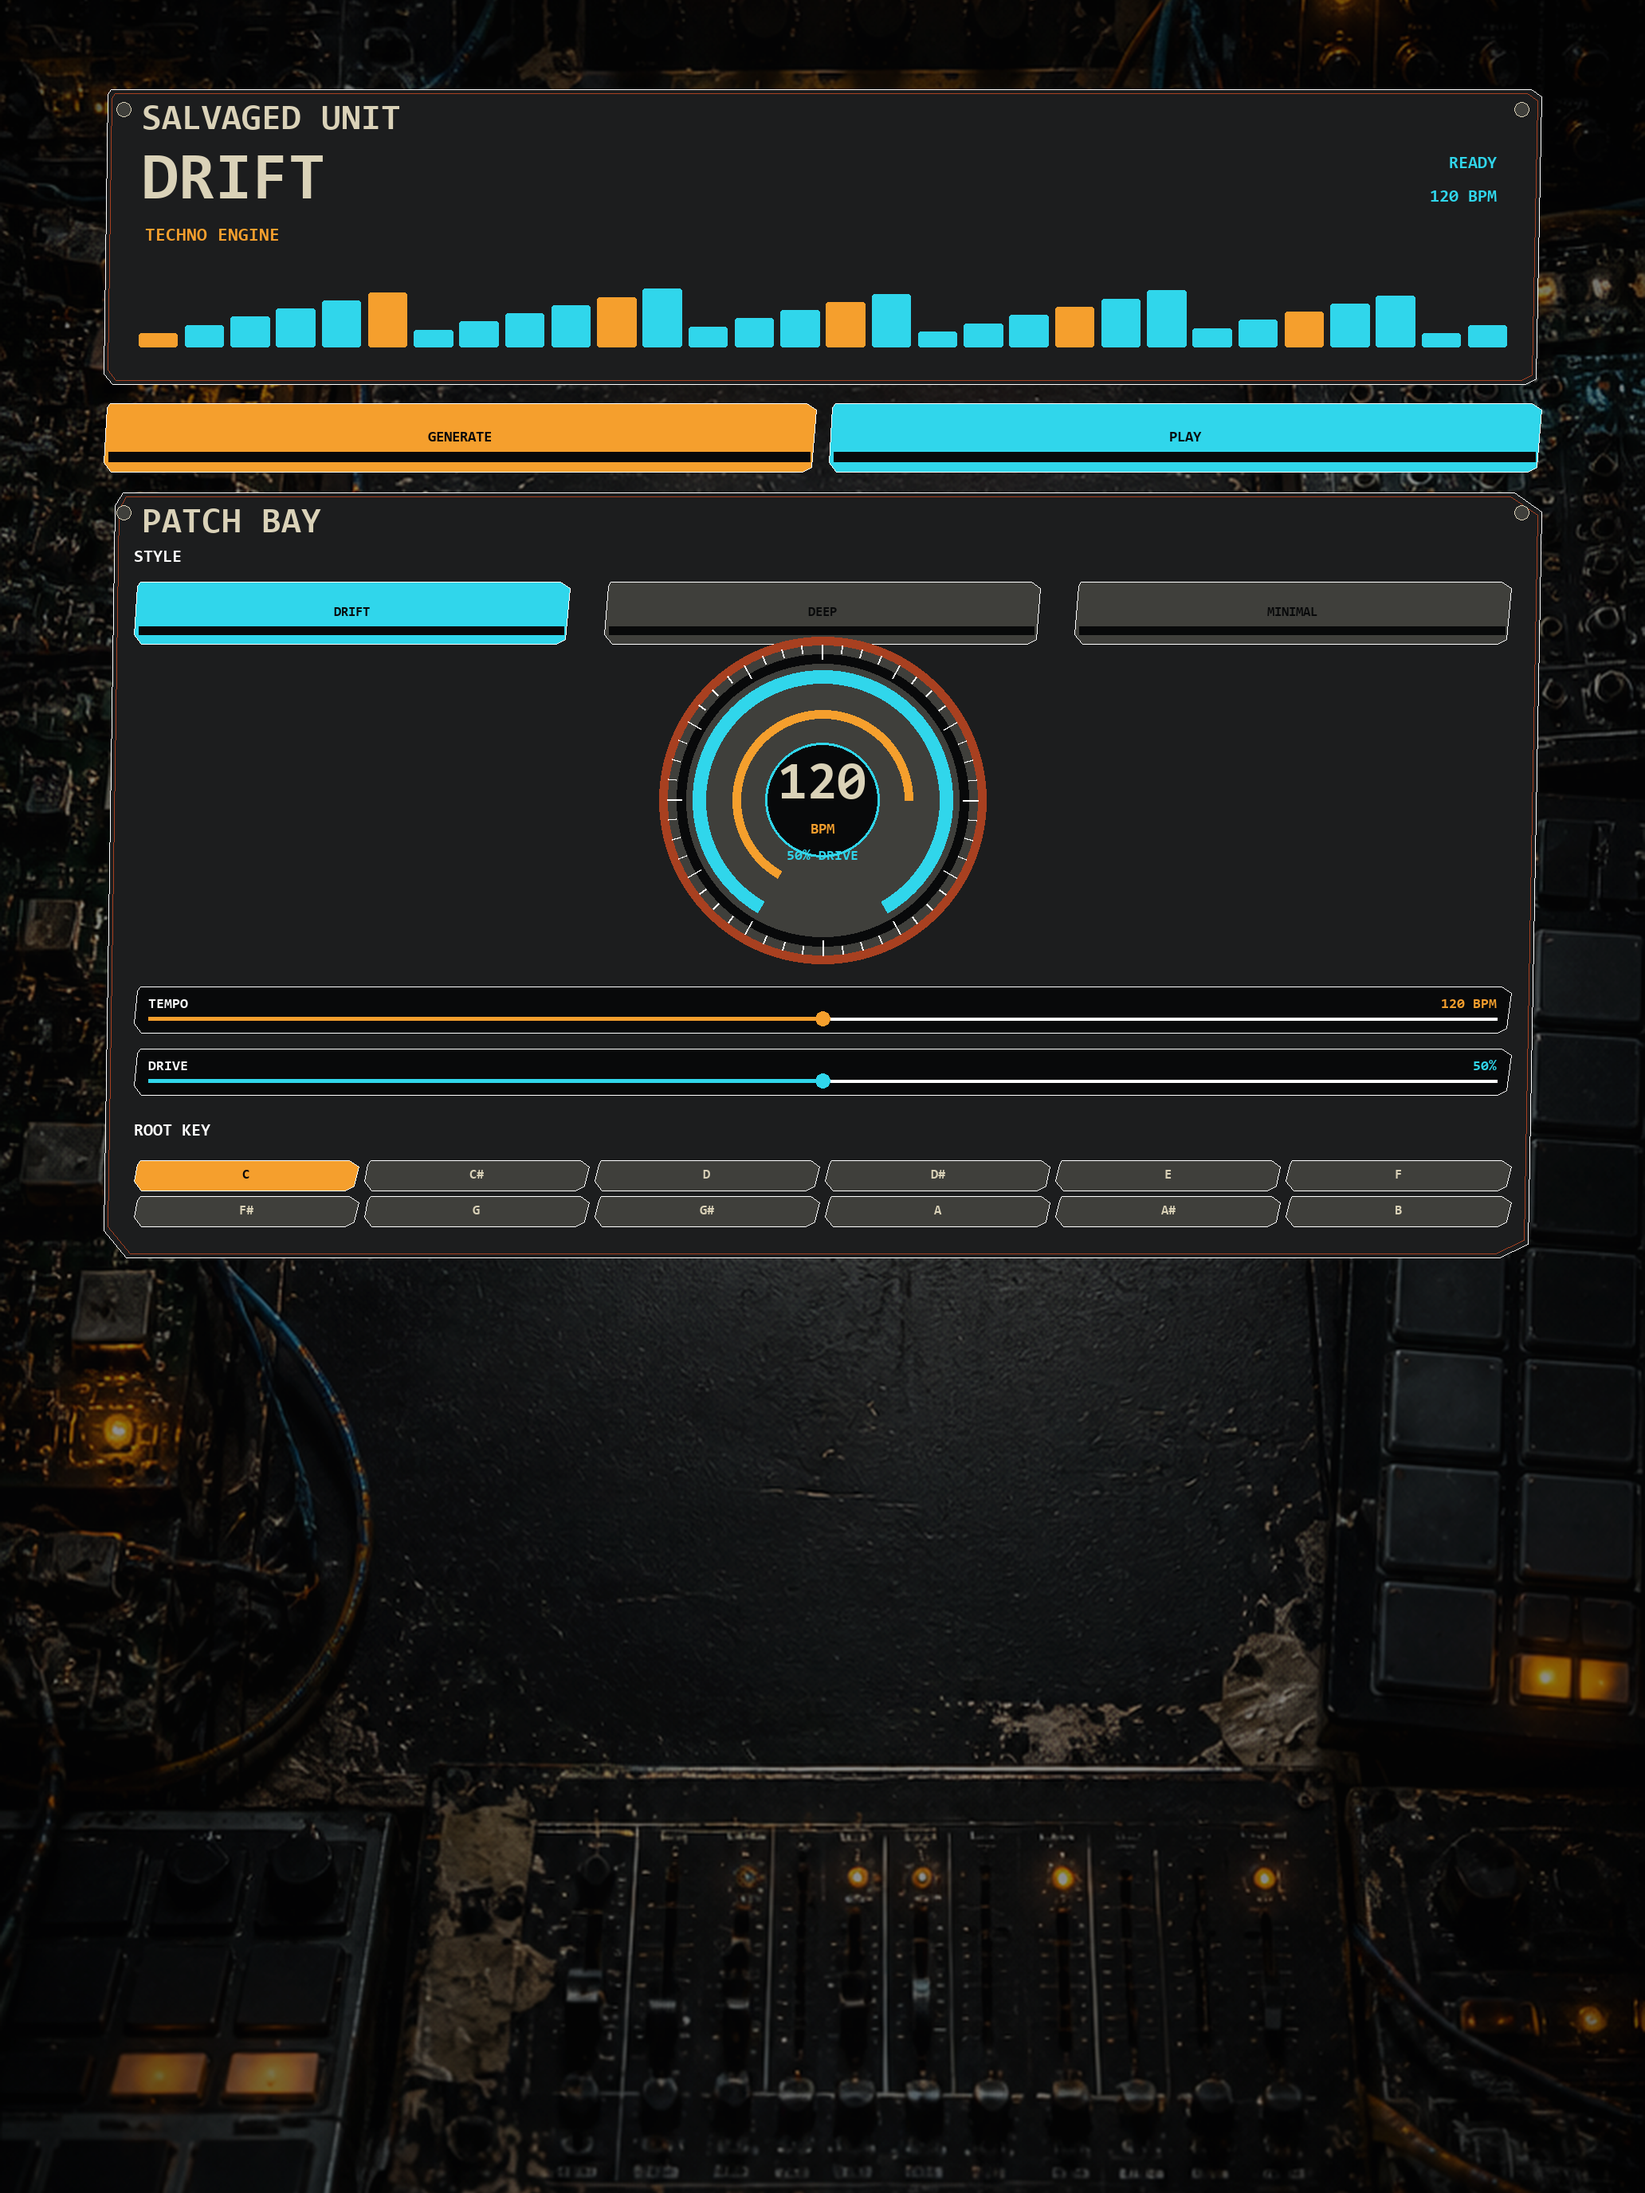
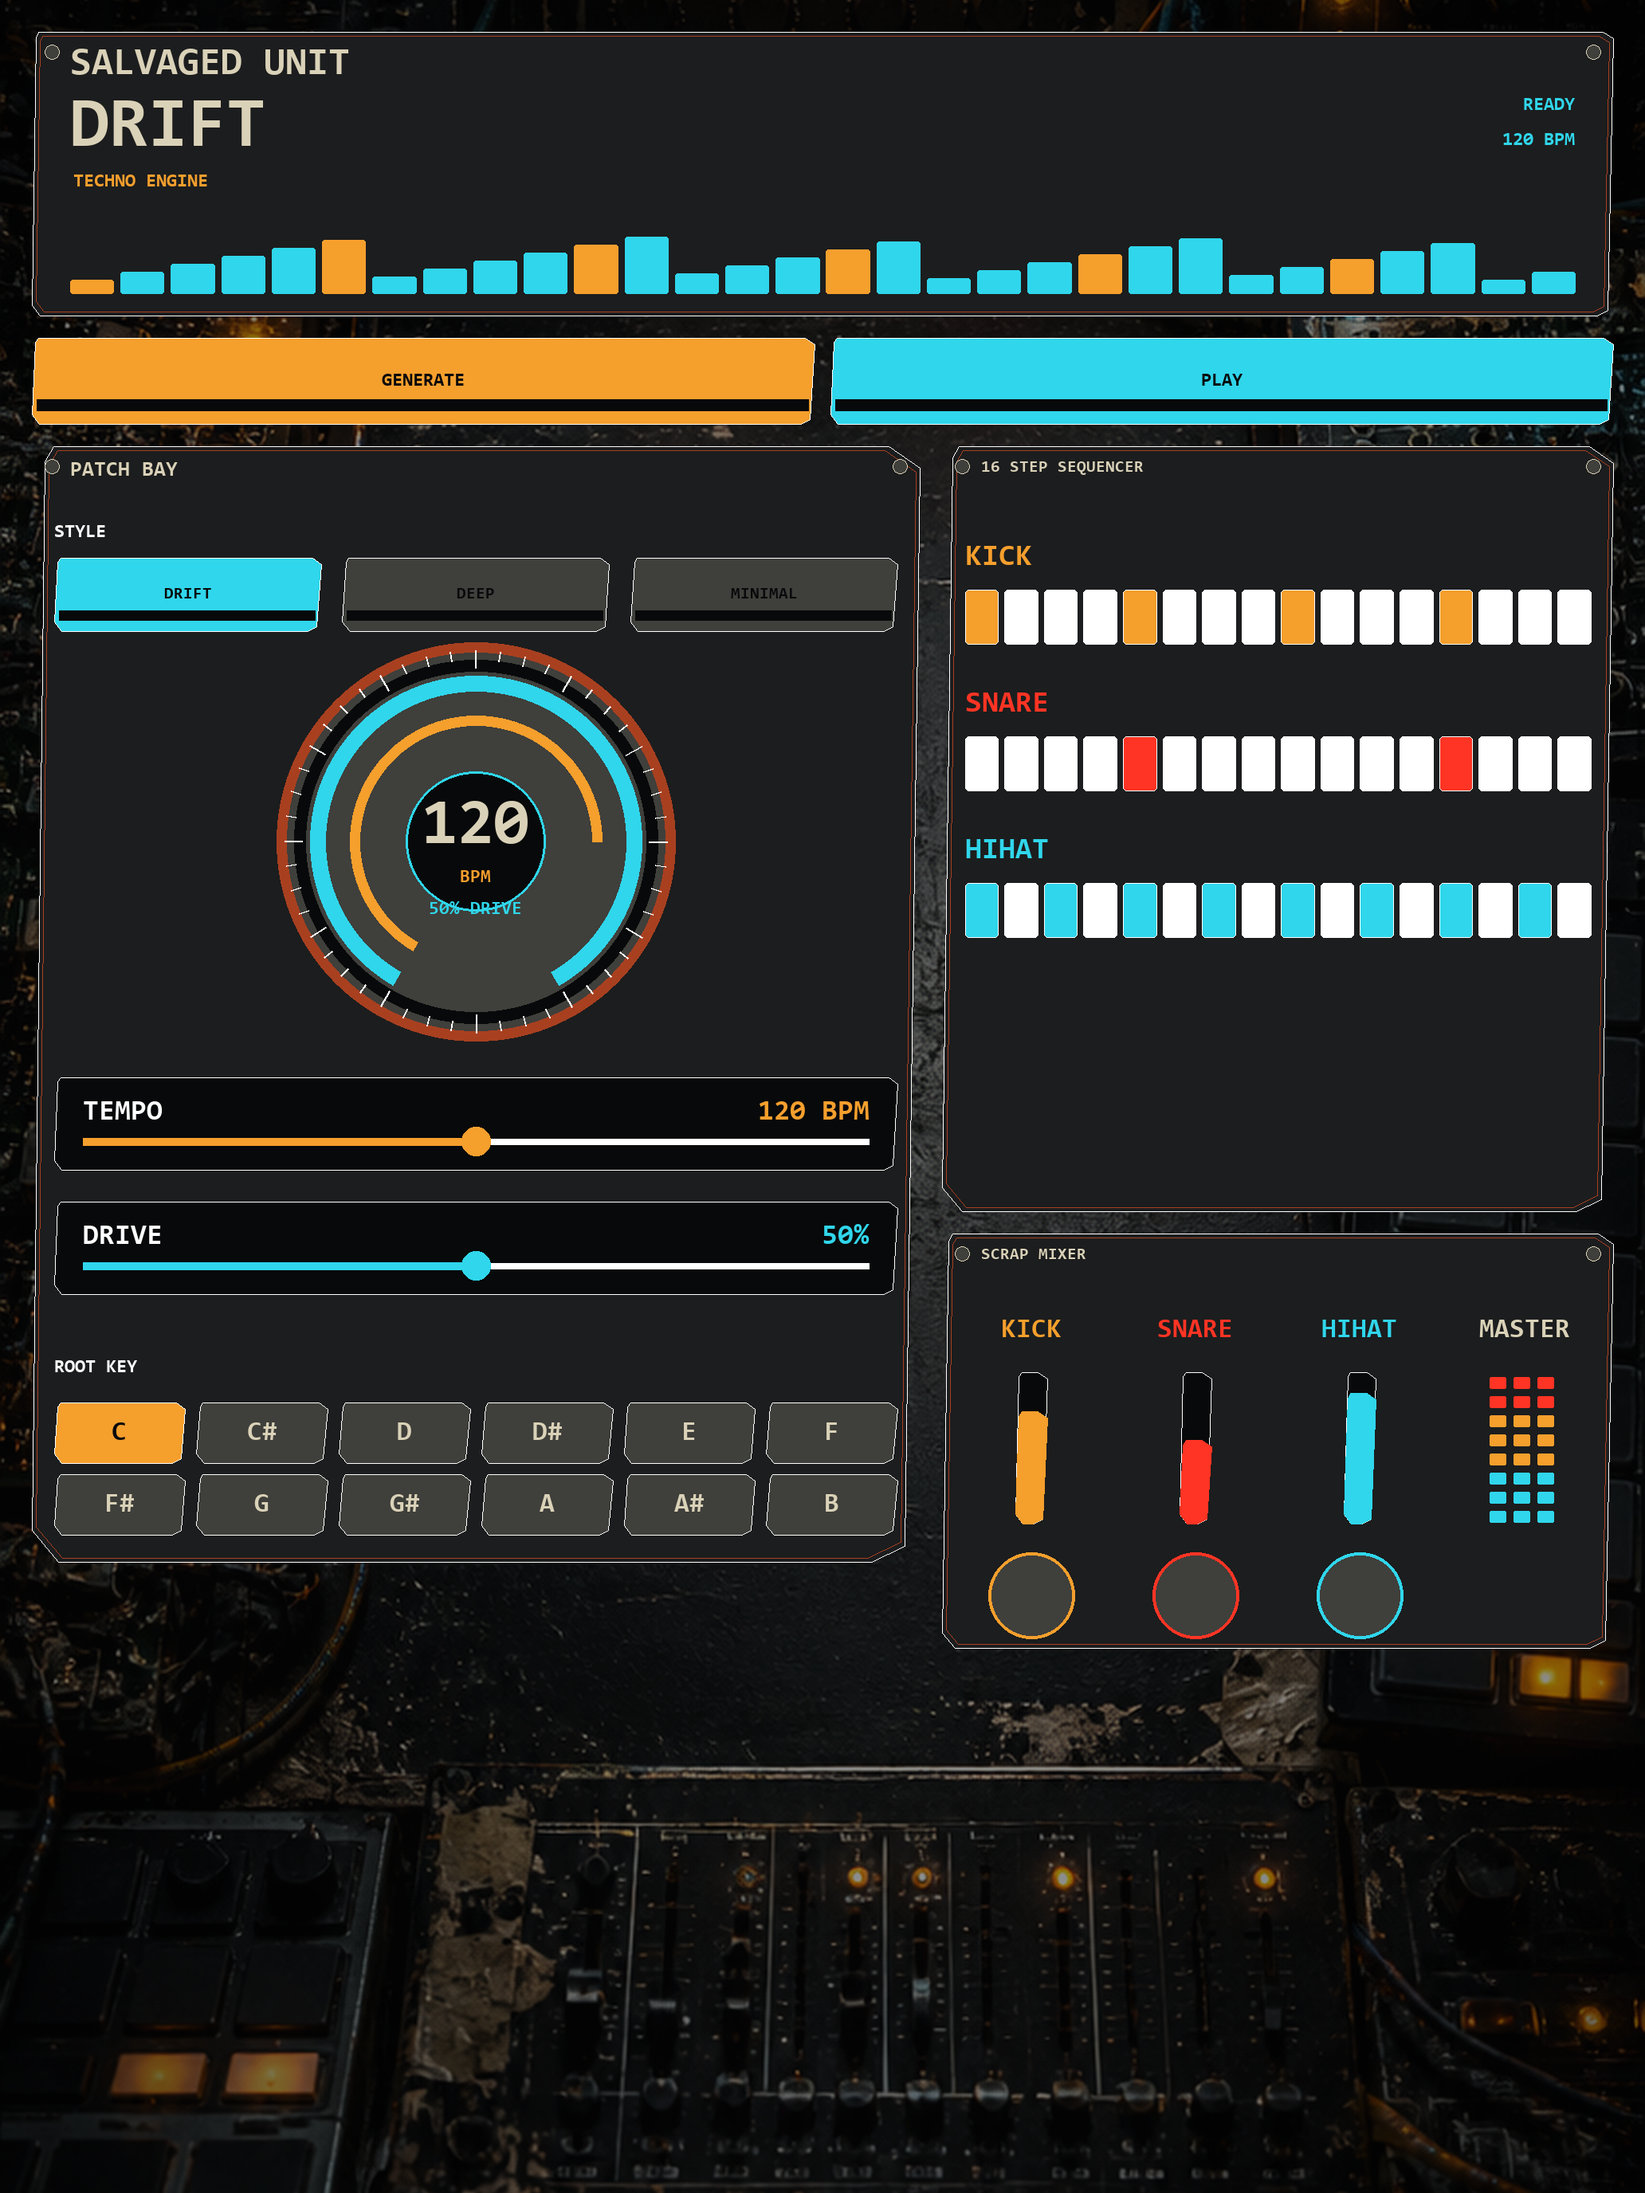
Fix iPad launch layout

Changed region(s): [[0.0, 0.0, 0.9922, 0.75], [0.9302, 0.5, 0.9612, 0.5312], [0.7132, 0.5938, 0.7442, 0.625]]

diff --git a/TechnoMaker/ContentView.swift b/TechnoMaker/ContentView.swift
@@ -8,34 +8,15 @@ struct ContentView: View {
         ZStack {
             DetroitBackplate()
 
-            ScrollView(showsIndicators: false) {
-                VStack(spacing: 14) {
-                    HeaderDeck(isPlaying: generator.isPlaying, tempo: generator.tempo)
-
-                    TransportDeck(
-                        isPlaying: generator.isPlaying,
-                        hasPattern: generator.generatedPattern != nil,
-                        generateAction: { generator.generateTechno() },
-                        playAction: togglePlayback
-                    )
-
-                    MachinePanel(title: "PATCH BAY") {
-                        StyleSelector(style: $generator.style)
-                        TempoDriveDeck(tempo: $generator.tempo, intensity: $generator.intensity)
-                        KeySelector(key: $generator.key, labels: keys)
+            GeometryReader { proxy in
+                if proxy.size.width >= 700 {
+                    iPadDeck(width: proxy.size.width)
+                        .frame(maxWidth: .infinity, maxHeight: .infinity, alignment: .top)
+                } else {
+                    ScrollView(showsIndicators: false) {
+                        phoneDeck
                     }
-
-                    if let pattern = generator.generatedPattern {
-                        SequencerPanel(pattern: pattern, currentStep: generator.isPlaying ? generator.currentStep : nil)
-                    } else {
-                        EmptySequencerPanel()
-                    }
-
-                    MixerPanel()
                 }
-                .padding(.horizontal, 16)
-                .padding(.top, 18)
-                .padding(.bottom, RuntimeEnvironment.isNativeDevice ? 84 : 28)
             }
         }
         .safeAreaInset(edge: .bottom) {
@@ -47,6 +28,69 @@ struct ContentView: View {
             }
         }
         .preferredColorScheme(.dark)
+    }
+
+    private var phoneDeck: some View {
+        VStack(spacing: 14) {
+            HeaderDeck(isPlaying: generator.isPlaying, tempo: generator.tempo)
+            transportDeck
+
+            MachinePanel(title: "PATCH BAY") {
+                StyleSelector(style: $generator.style)
+                TempoDriveDeck(tempo: $generator.tempo, intensity: $generator.intensity)
+                KeySelector(key: $generator.key, labels: keys)
+            }
+
+            sequencerDeck
+            MixerPanel()
+        }
+        .padding(.horizontal, 16)
+        .padding(.top, 18)
+        .padding(.bottom, RuntimeEnvironment.isNativeDevice ? 84 : 28)
+    }
+
+    private func iPadDeck(width: CGFloat) -> some View {
+        VStack(spacing: 14) {
+            HeaderDeck(isPlaying: generator.isPlaying, tempo: generator.tempo)
+            transportDeck
+
+            HStack(alignment: .top, spacing: 14) {
+                MachinePanel(title: "PATCH BAY") {
+                    StyleSelector(style: $generator.style)
+                    TempoDriveDeck(tempo: $generator.tempo, intensity: $generator.intensity)
+                    KeySelector(key: $generator.key, labels: keys)
+                }
+                .frame(width: min(width * 0.54, 560))
+
+                VStack(spacing: 14) {
+                    sequencerDeck
+                    MixerPanel()
+                }
+                .frame(maxWidth: .infinity)
+            }
+        }
+        .padding(.horizontal, 20)
+        .padding(.top, 20)
+        .padding(.bottom, RuntimeEnvironment.isNativeDevice ? 90 : 30)
+    }
+
+    private var transportDeck: some View {
+        TransportDeck(
+            isPlaying: generator.isPlaying,
+            hasPattern: generator.generatedPattern != nil,
+            generateAction: { generator.generateTechno() },
+            playAction: togglePlayback
+        )
+    }
+
+    private var sequencerDeck: some View {
+        Group {
+            if let pattern = generator.generatedPattern {
+                SequencerPanel(pattern: pattern, currentStep: generator.isPlaying ? generator.currentStep : nil)
+            } else {
+                EmptySequencerPanel()
+            }
+        }
     }
 
     private func togglePlayback() {

diff --git a/scripts/generate_marketing_screenshots.py b/scripts/generate_marketing_screenshots.py
@@ -200,18 +200,15 @@ def mixer(draw, x, y, w, h, scale):
 
 
 def base_ui(size, mode):
+    if size[0] > 1500:
+        return ipad_ui(size, mode)
+
     img = cover_background(size)
     draw = ImageDraw.Draw(img, "RGBA")
     scale = size[0] / 1290
     margin = 54 * scale
     panel_w = size[0] - margin * 2
     y = 72 * scale
-
-    if size[0] > 1500:
-        scale = size[0] / 2064
-        margin = 130 * scale
-        panel_w = size[0] - margin * 2
-        y = 112 * scale
 
     panel(draw, (margin, y, panel_w, 370 * scale), "SALVAGED UNIT")
     draw_text(draw, (margin + 48 * scale, y + 74 * scale), "DRIFT", int(84 * scale), COLORS["bone"], True)
@@ -242,6 +239,54 @@ def base_ui(size, mode):
         y += 494 * scale
         panel(draw, (margin, y, panel_w, 330 * scale), "SCRAP MIXER")
         mixer(draw, margin + 38 * scale, y + 76 * scale, panel_w - 76 * scale, 230 * scale, scale)
+
+    return img.convert("RGB")
+
+
+def ipad_ui(size, mode):
+    img = cover_background(size)
+    draw = ImageDraw.Draw(img, "RGBA")
+    scale = size[0] / 1032
+    margin = 20 * scale
+    panel_w = size[0] - margin * 2
+    y = 20 * scale
+
+    panel(draw, (margin, y, panel_w, 178 * scale), "SALVAGED UNIT")
+    draw_text(draw, (margin + 24 * scale, y + 38 * scale), "DRIFT", int(45 * scale), COLORS["bone"], True)
+    draw_text(draw, (margin + 26 * scale, y + 88 * scale), "TECHNO ENGINE", int(12 * scale), COLORS["amber"], True)
+    draw_text(draw, (margin + panel_w - 24 * scale, y + 40 * scale), "READY", int(12 * scale), COLORS["cyan"], True, "ra")
+    draw_text(draw, (margin + panel_w - 24 * scale, y + 62 * scale), "120 BPM", int(12 * scale), COLORS["cyan"], True, "ra")
+    led_scope(draw, margin + 24 * scale, y + 126 * scale, panel_w - 48 * scale, 38 * scale, mode == "sequencer")
+
+    y += 192 * scale
+    deck_button(draw, (margin, y, panel_w / 2 - 5 * scale, 54 * scale), "GENERATE", COLORS["amber"])
+    deck_button(draw, (margin + panel_w / 2 + 5 * scale, y, panel_w / 2 - 5 * scale, 54 * scale), "PLAY", COLORS["cyan"])
+
+    y += 68 * scale
+    gap = 14 * scale
+    left_w = min(size[0] * 0.54, 560 * scale)
+    right_w = panel_w - left_w - gap
+    left_x = margin
+    right_x = margin + left_w + gap
+
+    panel(draw, (left_x, y, left_w, 700 * scale), "PATCH BAY")
+    draw_text(draw, (left_x + 14 * scale, y + 48 * scale), "STYLE", int(12 * scale), rgba(COLORS["white"], 160), True)
+    style_buttons(draw, left_x + 14 * scale, y + 70 * scale, left_w - 28 * scale, 46 * scale)
+    rotor(draw, left_x + left_w / 2, y + 248 * scale, 125 * scale)
+    sliders(draw, left_x + 14 * scale, y + 396 * scale, left_w - 28 * scale, scale)
+    draw_text(draw, (left_x + 14 * scale, y + 572 * scale), "ROOT KEY", int(12 * scale), rgba(COLORS["white"], 160), True)
+    keys(draw, left_x + 14 * scale, y + 600 * scale, left_w - 28 * scale, scale)
+
+    panel(draw, (right_x, y, right_w, 480 * scale), "16 STEP SEQUENCER")
+    if mode == "main":
+        draw_text(draw, (right_x + 14 * scale, y + 62 * scale), "GENERATE TO PATCH A NEW LOOP", int(11 * scale), rgba(COLORS["white"], 125), True)
+        sequencer(draw, right_x + 14 * scale, y + 92 * scale, right_w - 28 * scale, scale, False)
+    else:
+        sequencer(draw, right_x + 14 * scale, y + 60 * scale, right_w - 28 * scale, scale, mode == "sequencer")
+
+    mix_y = y + 494 * scale
+    panel(draw, (right_x, mix_y, right_w, 260 * scale), "SCRAP MIXER")
+    mixer(draw, right_x + 14 * scale, mix_y + 52 * scale, right_w - 28 * scale, 154 * scale, scale)
 
     return img.convert("RGB")
 
